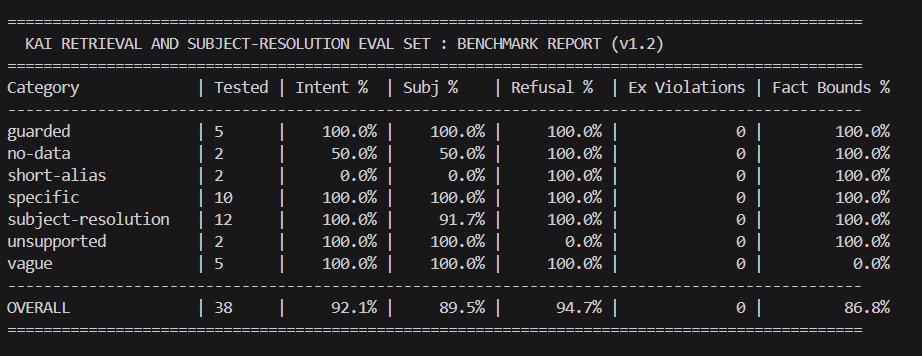
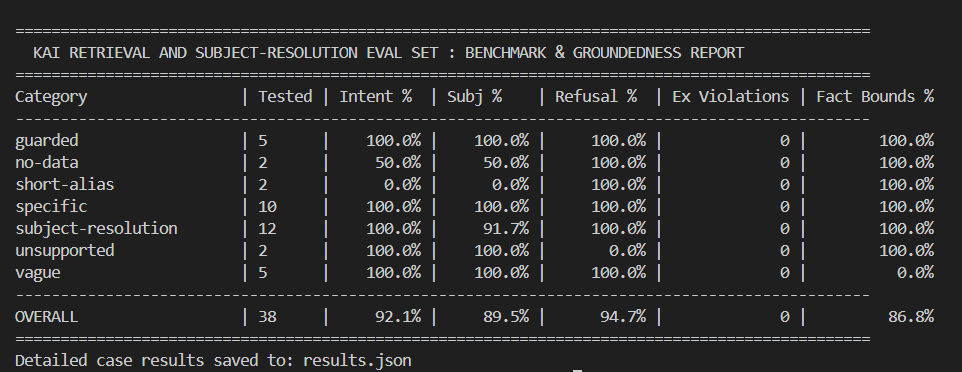
Complete Phase 2: Add session comparison, trend outlier drop, and groundedness engines

diff --git a/README.md b/README.md
@@ -1,6 +1,6 @@
 # Kai Evaluation and Regression Harness
 
-A lightweight, deterministic scoring harness for evaluating intent classification, subject resolution, retrieval volume balance, and safety guardrails in AI workout coaches.
+A lightweight, deterministic scoring harness for evaluating intent classification, subject resolution, retrieval volume balance, arithmetic groundedness, and safety guardrails in AI workout coaches.
 
 ## Overview
 
@@ -8,23 +8,23 @@ Conversational fitness assistants frequently suffer from two common failure mode
 
 1. Sub-string collision during entity resolution: Preprocessing steps (such as stripping apostrophes from contractions like "how's") can leave stray tokens that trigger wildcard matches on unintended exercises (for example, resolving a general leg question to "Bicycle Crunch Raised Legs").
 2. Retrieval volume imbalance: Over-retrieving context on broad questions (causing context bloat) and under-retrieving on specific, time-bounded queries.
+3. Ungrounded mathematical claims: Stating volume or e1RM changes that contradict cited log numbers, or promoting a single outlier workout to a long-term trend.
 
 This harness provides a reproducible evaluation pipeline that scores model responses against a synthetic benchmark suite per category rather than relying on a single aggregate number.
 
-## Metrics Tracked
+## Metrics and Evaluation Engines
 
+### 1. Routing and Retrieval Benchmarks
 * Intent Accuracy (%): Exact match against expected query intent classification.
 * Subject Resolution Accuracy (%): Exact match across both subject kind (region, exercise, muscle, global, none) and normalized target name.
 * Refusal Accuracy (%): Validates that guarded and unsupported queries refuse, and normal queries answer.
 * Exercise Constraint Violations: Explicit flag tracking cases that must never resolve to a single exercise.
 * Fact Bounds Pass Rate (%): Verifies retrieved workout log facts fall within expected min and max bounds.
 
-## Production Validation & Impact
-
-This harness was commissioned and built from spec for **Kai**, the AI strength-training coach in the [Bask](https://baskai.app/) app, to diagnose failure modes prior to production deployment.
-
-> *"Roan built the scoring harness for Kai, the AI coach in our strength-training app Bask. He wrote it in Python and released it under MIT, choosing the permissive licence himself so we could use it commercially, which I had not asked for. He worked entirely from a written spec with no repository access, no credentials and no production data, and what he delivered integrated with our side first time. Turnaround was about a week from the first conversation to us running our evaluation set through it, and it surfaced real defects in our AI responses that we had not found by hand. He asked good questions, scoped his own work sensibly, and was straightforward to work with. I would work with him again and I am happy to talk to anyone considering hiring him."*  
-> — **Oliver Gilder**, Co-founder, Bask
+### 2. Advanced Groundedness Engines (SC-*, TN-*, ER-*)
+* Session Comparison (SC-1 to SC-5): Recomputes directional arithmetic deltas from session data and catches invented numerals in response text.
+* Trend vs Noise (TN-1 to TN-5): Enforces sample floors and applies an outlier drop algorithm to verify that directional trends do not invert when the most extreme workout is removed.
+* Evidence-Backed Recommendations (ER-1 to ER-5): Verifies that all coaching recommendations reconstruct from cited evidence IDs and comply with safety contracts.
 
 ## Quick Start
 
@@ -32,8 +32,11 @@ This harness was commissioned and built from spec for **Kai**, the AI strength-t
 git clone https://github.com/roandejager/kai-eval-harness.git
 cd kai-eval-harness
 
-2. Run the benchmark:
-py scorer.py --eval-set kai-eval-set-v1.2-2026-09-01.json --responses kai-responses-deterministic-2026-08-31.json --export results.json
+2. Run the full benchmark:
+py scorer.py
+
+3. Run with custom trend thresholds:
+py scorer.py --min-sessions 4 --min-days 21 --export results.json
 
 ## Baseline Benchmark Report (v1.2)
 
